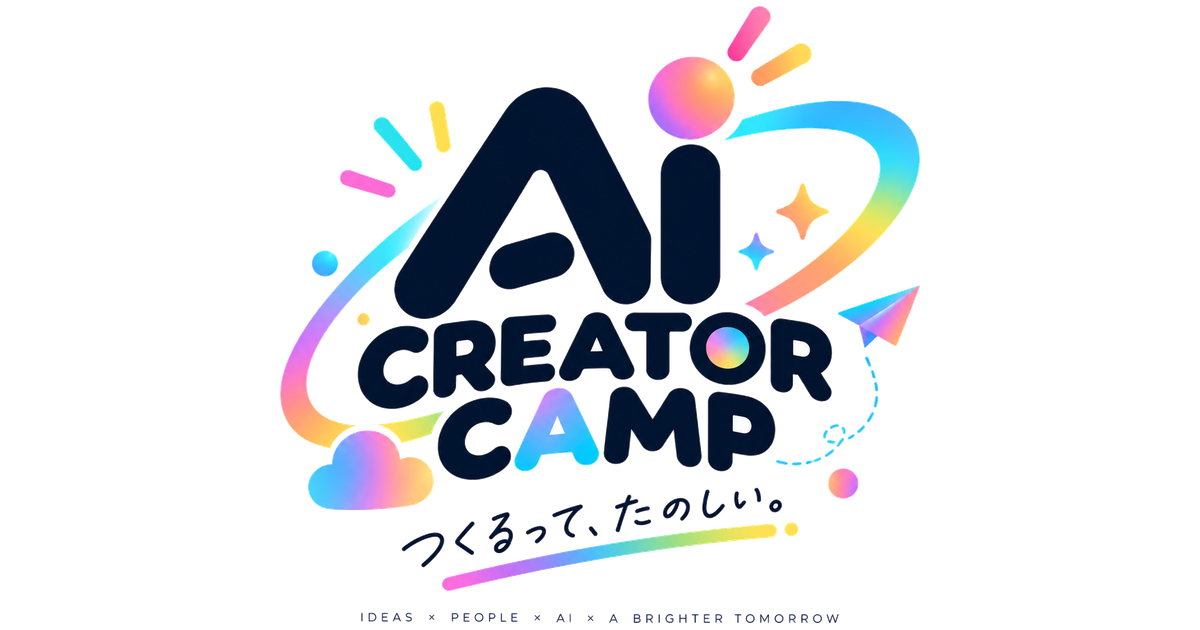
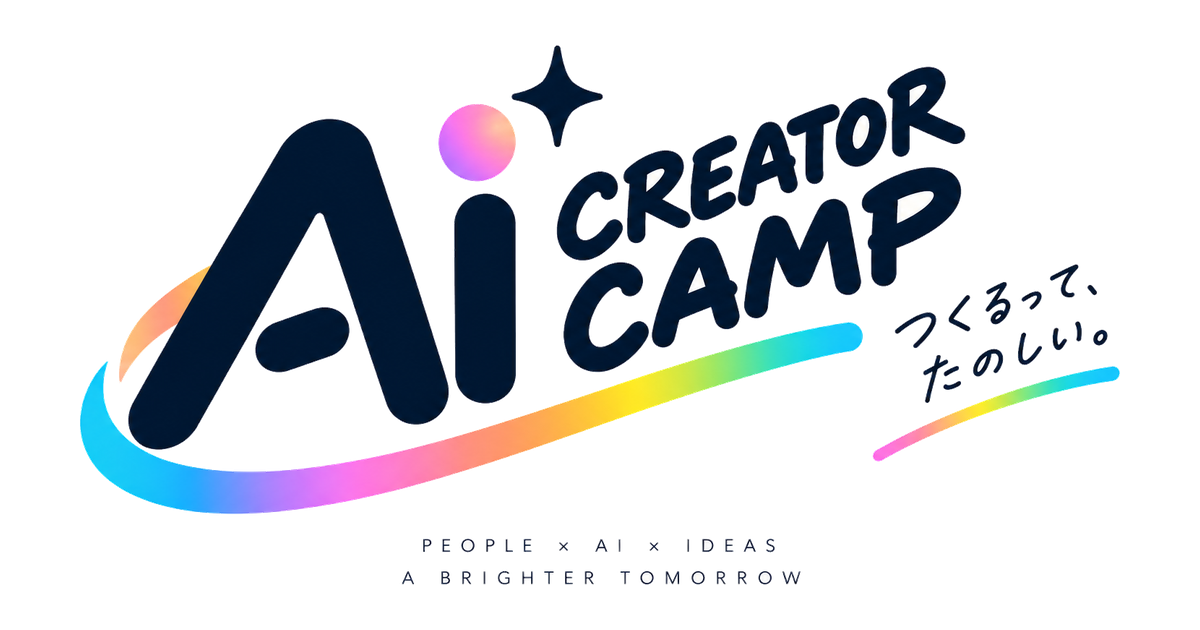
ロゴを新しい横型に差し替え、正直セクションを書き直し
ロゴ：横型の新デザインに全面差し替え（logo.png / mark.png /
favicon-32 / favicon-180 / ogp.png）。横長になったので、
ヒーローのロゴを高さ基準から幅基準（最大500px）に変更。

正直セクション：「実績はまだありません」「参加者はゼロです」の
2つの記述を削除。33名限定と価格据え置きを前に出し、
審査は本当にやるという事実はそのまま残した。

Claude-Session: https://claude.ai/code/session_018fA6rAdrQWhkobGnLvTfg5

diff --git a/index.html b/index.html
@@ -110,8 +110,8 @@ h2{
 .dot{width:8px;height:8px;border-radius:50%;background:var(--pink);animation:pl 2s infinite}
 @keyframes pl{0%,100%{opacity:1}50%{opacity:.3}}
 @media(max-width:560px){.status{font-size:11.5px;padding:8px 14px}.status .opt{display:none}}
-.herologo{height:158px;width:auto;margin:0 0 24px -12px}
-@media(max-width:640px){.herologo{height:116px;margin-left:-6px;margin-bottom:18px}}
+.herologo{width:min(500px,88%);height:auto;margin:0 0 26px -10px}
+@media(max-width:640px){.herologo{width:min(340px,94%);margin-left:-6px;margin-bottom:20px}}
 .hero h1{
   font-size:clamp(28px,6.2vw,60px);font-weight:900;line-height:1.42;
   margin-bottom:26px;word-break:auto-phrase;
@@ -364,9 +364,9 @@ footer{background:var(--bg-2);padding:52px 0 30px;border-top:1px solid var(--lin
 <section class="honest">
   <div class="mid">
     <div class="box">
-      <h2>実績は、まだありません。</h2>
-      <p>いま参加者はゼロです。0期がこれから始まります。だから「卒業生がこうなりました」という話は、ひとつも書けません。</p>
-      <p>そのかわり、0期にしかない得があります。33名しか取らないので、ひとりずつ最後まで見られます。この人数は、増やしたらもう戻せません。価格も、0期に入った人は在籍しているあいだずっと据え置きます。</p>
+      <h2>0期は、33名だけです。</h2>
+      <p>ひとりずつ最後まで見るために決めた人数です。増やしたら、もう戻せません。だから0期は33名で締め切ります。</p>
+      <p>価格も、0期に入った人は在籍しているあいだずっと据え置きます。1期からは上げます。いちばん条件がいいのは、いまです。</p>
       <p>そのうえで、審査は本当にやります。落ちる人は出ます。ただ、落ちてもやめる必要はありません。次の月に、同じ月をもう一度やれます。会費も同じ額です。</p>
     </div>
   </div>
